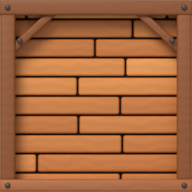
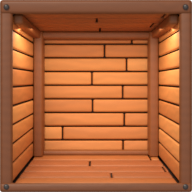
Деревянная комната с объёмом: задняя стена, пол, потолок и бока в перспективе, толстая рама
Claude-Session: https://claude.ai/code/session_01Gsst3hFuf1c6zM4f6Jt7o5

diff --git a/art_src/rooms/build_rooms.py b/art_src/rooms/build_rooms.py
@@ -5,17 +5,18 @@ import os, sys, math, random
 import bpy
 
 HERE = os.path.dirname(os.path.abspath(__file__))
-OUT = os.path.join(HERE, '..', '..', 'assets', 'rooms')
+# ROOMS_OUT, ROOMS_WIDTHS=6, ROOMS_SAMPLES=24 — для быстрых проб.
+OUT = os.environ.get('ROOMS_OUT') or os.path.join(HERE, '..', '..', 'assets', 'rooms')
 PX = 64           # пикселей на метр (клетку) в рендере
 H = 3.0           # высота комнаты
-WIDTHS = [3, 6, 9]
+WIDTHS = [int(v) for v in os.environ.get('ROOMS_WIDTHS', '3,6,9').split(',')]
 
 
 def reset():
     bpy.ops.wm.read_factory_settings(use_empty=True)
     sc = bpy.context.scene
     sc.render.engine = 'CYCLES'
-    sc.cycles.samples = 96
+    sc.cycles.samples = int(os.environ.get('ROOMS_SAMPLES', 96))
     sc.cycles.use_denoising = True
     sc.render.film_transparent = True
     sc.view_settings.view_transform = 'Standard'
@@ -114,45 +115,121 @@ def bolt(x, z, y, m):
     bpy.ops.object.shade_smooth()
 
 
+# Объём «разрезом»: внутренность — настоящая коробка глубиной D, которую потом сжимаем
+# к задней стене на постоянный отступ (вынужденная перспектива). Камера ортогональная,
+# поэтому передняя рама ровно совпадает с клетками, а глубина одинакова у комнат 3/6/9.
+D = 1.5                 # глубина комнаты (м)
+FS, FT, FB = 0.2, 0.22, 0.14   # толщина передней рамы: бок, верх, низ
+INSET = (0.36, 0.3, 0.46)      # насколько сужается к задней стене: бок, потолок, пол
+
+
+def warp(objs, w):
+    """Сжать вершины объектов к задней стене: чем глубже (y), тем ближе к центру."""
+    X0, X1, Z0, Z1 = FS, w - FS, FB, H - FT
+    for o in objs:
+        bpy.context.view_layer.objects.active = o
+        for s in bpy.context.selected_objects:
+            s.select_set(False)
+        o.select_set(True)
+        bpy.ops.object.convert(target='MESH')
+        mw = o.matrix_world.copy()
+        inv = mw.inverted()
+        for v in o.data.vertices:
+            p = mw @ v.co
+            k = min(1.0, max(0.0, p.y / D))
+            ax, at, ab = INSET[0] * k, INSET[1] * k, INSET[2] * k
+            x = X0 + ax + (p.x - X0) * (X1 - X0 - 2 * ax) / (X1 - X0)
+            z = Z0 + ab + (p.z - Z0) * (Z1 - Z0 - ab - at) / (Z1 - Z0)
+            p.x, p.z = x, z
+            v.co = inv @ p
+        o.data.update()
+
+
+def planks_along(name, axis, a0, a1, b0, b1, plane, side, mats, rnd, ph=0.3, t=0.06):
+    """Доски поверхности. axis='x' — доски вдоль x (рядами по второй оси b),
+    plane — координата поверхности по третьей оси, side — куда толщина (±1)."""
+    out = []
+    b = b0
+    row = 0
+    while b < b1 - 0.01:
+        b2 = min(b1, b + ph)
+        a = a0 if row % 2 == 0 else a0 - rnd.uniform(0.6, 1.4)
+        while a < a1:
+            ln = rnd.uniform(1.6, 2.8)
+            x0, x1 = max(a0, a), min(a1, a + ln)
+            if x1 - x0 > 0.05:
+                c0, c1 = sorted((plane, plane + side * t))
+                m = rnd.choice(mats)
+                if axis == 'xz':      # задняя стена: доски по x, ряды по z, толщина по y
+                    out.append(box(name, x0 + .015, b + .015, x1 - .015, b2 - .015, c0, c1, m, .03))
+                elif axis == 'xy':    # пол/потолок: доски по x, ряды по y, толщина по z
+                    o = box(name, x0 + .015, c0, x1 - .015, c1, b + .015, b2 - .015, m, .03)
+                    out.append(o)
+            a += ln
+        b = b2
+        row += 1
+    return out
+
+
 def wood_room(w):
     rnd = random.Random(w)
     tones = ['#d9904f', '#cc8245', '#e29c5a', '#c47a40']
     planks = [mat('plank%d' % i, c, 0.65, 0.35) for i, c in enumerate(tones)]
+    floor_t = [mat('fl%d' % i, c, 0.5, 0.3) for i, c in enumerate(['#b06a3a', '#a5613a', '#b9743f'])]
+    ceil_t = [mat('cl%d' % i, c, 0.6, 0.3) for i, c in enumerate(['#9c5a2e', '#a96534'])]
     gap = mat('gap', '#3a1f10', 0.9)
     post = mat('post', '#8a4f26', 0.55, 0.3)
-    floor = mat('floor', '#a8653a', 0.5, 0.3)
+    frame = mat('frame', '#7a4422', 0.5, 0.3)
     iron = mat('iron', '#3b3536', 0.35)
-    # Задняя стена: горизонтальные доски со сдвинутыми стыками; за ними тёмная щель.
-    box('back', 0, 0, w, H, 0.32, 0.4, gap, 0)
-    ph = 0.3
-    z = 0.0
-    row = 0
-    while z < H - 0.01:
-        x = 0.0 if row % 2 == 0 else -rnd.uniform(0.6, 1.4)
-        while x < w:
-            ln = rnd.uniform(1.6, 2.8)
-            x0, x1 = max(0.0, x), min(w, x + ln)
-            if x1 - x0 > 0.05:
-                box('p', x0 + 0.015, z + 0.015, x1 - 0.015, z + ph - 0.015, 0.18, 0.32, rnd.choice(planks), 0.035)
-            x += ln
-        z += ph
-        row += 1
-    # Пол — толстая доска, потолок — балка; по бокам и через 3 м — стойки с укосинами.
-    box('floor', -0.02, 0.0, w + 0.02, 0.2, -0.25, 0.3, floor, 0.04)
-    box('ceil', -0.02, H - 0.24, w + 0.02, H, -0.2, 0.3, post, 0.04)
-    xs = list(range(0, w + 1, 3))
-    for x in xs:
-        x0 = x - 0.0 if x == 0 else (x - 0.24 if x == w else x - 0.12)
-        x0 = 0.0 if x == 0 else x0
-        box('post', x0, 0.18, x0 + 0.24, H - 0.2, -0.18, 0.28, post, 0.04)
+    X0, X1, Z0, Z1 = FS, w - FS, FB, H - FT
+    inner = []
+    # Тёмная подложка за всеми досками — в щелях между ними.
+    inner.append(box('back_gap', X0 - .1, Z0 - .1, X1 + .1, Z1 + .1, D + 0.06, D + 0.12, gap, 0))
+    inner.append(box('floor_gap', X0 - .1, Z0 - .14, X1 + .1, Z0 - .06, -0.1, D + .1, gap, 0))
+    inner.append(box('ceil_gap', X0 - .1, Z1 + .06, X1 + .1, Z1 + .14, -0.1, D + .1, gap, 0))
+    # Задняя стена, пол, потолок — доски.
+    inner += planks_along('back', 'xz', X0, X1, Z0, Z1, D, 1, planks, rnd)
+    inner += planks_along('floor', 'xy', X0, X1, 0.0, D, Z0, -1, floor_t, rnd, ph=0.3)
+    inner += planks_along('ceil', 'xy', X0, X1, 0.0, D, Z1, 1, ceil_t, rnd, ph=0.375)
+    # Боковые стены: доски вдоль глубины, рядами по высоте.
+    for x, sd in ((X0, -1), (X1, 1)):
+        g0, g1 = sorted((x + sd * .06, x + sd * .12))
+        inner.append(box('side_gap', g0, Z0 - .1, g1, Z1 + .1, -0.1, D + .1, gap, 0))
+        z = Z0
+        while z < Z1 - 0.01:
+            z2 = min(Z1, z + 0.3)
+            c0, c1 = sorted((x, x + sd * 0.06))
+            inner.append(box('side', c0, z + .015, c1, z2 - .015, -0.05, D + .02, rnd.choice(planks), .03))
+            z = z2
+    # Стойки в задних углах и балки по рёбрам потолка и пола.
+    for x in (X0, X1 - 0.2):
+        inner.append(box('corner', x, Z0, x + 0.2, Z1, D - 0.2, D, post, .04))
+    inner.append(box('back_top', X0, Z1 - 0.16, X1, Z1, D - 0.16, D, post, .04))
+    inner.append(box('back_low', X0, Z0, X1, Z0 + 0.1, D - 0.1, D, post, .03))
+    for x in (X0, X1 - 0.16):
+        inner.append(box('ceil_edge', x, Z1 - 0.16, x + 0.16, Z1, 0.0, D, post, .04))
+    # Через 3 м — стойки на задней стене с укосинами под потолочной балкой.
+    for x in range(3, w, 3):
+        inner.append(box('post', x - 0.1, Z0, x + 0.1, Z1, D - 0.14, D, post, .04))
         for side in (-1, 1):
-            if (x == 0 and side < 0) or (x == w and side > 0):
-                continue
-            px = x0 + (0.24 if side > 0 else 0.0)
-            beam('brace', (px - side * 0.08, H - 0.8), (px + side * 0.6, H - 0.18), 0.13, -0.12, 0.22, post)
-            bolt(px + side * 0.07, H - 0.64, -0.19, iron)
-        bolt(x0 + 0.12, H - 0.12, -0.21, iron)
-        bolt(x0 + 0.12, 0.1, -0.26, iron)
+            px = x + side * 0.1
+            inner.append(beam('brace', (px - side * 0.06, Z1 - 0.7), (px + side * 0.5, Z1 - 0.12), 0.12, D - 0.12, D - 0.02, post))
+            bolt(px + side * 0.06, Z1 - 0.56, D - 0.13, iron)
+            inner.append(bpy.context.object)
+    # Потолочные балки поперёк, в глубину.
+    for x in range(3, w, 3):
+        inner.append(box('joist', x - 0.09, Z1 - 0.14, x + 0.09, Z1, 0.0, D, post, .04))
+    warp(inner, w)
+    # Передняя рама — толстые брусья поверх разреза, с болтами в углах.
+    box('f_left', 0, 0, FS, H, -0.2, 0.06, frame, .05)
+    box('f_right', w - FS, 0, w, H, -0.2, 0.06, frame, .05)
+    box('f_top', 0, H - FT, w, H, -0.22, 0.04, frame, .05)
+    box('f_bot', 0, 0, w, FB, -0.24, 0.04, frame, .04)
+    for x in (FS / 2, w - FS / 2):
+        for z in (H - FT / 2, FB / 2 + 0.01):
+            bolt(x, z, -0.24, iron)
+    for x in range(3, w, 3):
+        bolt(x, H - FT / 2, -0.24, iron)
 
 
 def light_and_camera(w):
@@ -174,6 +251,14 @@ def light_and_camera(w):
     fill.data.energy = 0.6
     fill.data.angle = math.radians(60)
     fill.rotation_euler = (math.radians(85), math.radians(15), 0)
+    # Тёплый рассеянный свет внутри, под потолком у передней рамы.
+    bpy.ops.object.light_add(type='AREA', location=(w / 2, 0.4, H - 0.45))
+    inner = bpy.context.object
+    inner.data.shape = 'RECTANGLE'
+    inner.data.size = w * 0.8
+    inner.data.size_y = 0.6
+    inner.data.energy = 14 * w
+    inner.data.color = (1.0, 0.82, 0.6)
     bpy.ops.object.camera_add(location=(w / 2, -20, H / 2), rotation=(math.radians(90), 0, 0))
     cam = bpy.context.object
     cam.data.type = 'ORTHO'

diff --git a/docs/DESIGN_PLAN.md b/docs/DESIGN_PLAN.md
@@ -20,8 +20,8 @@
 1. Фон — картинки есть в `art_src/backgrounds/` (см. README там): сшить края, встроить
    вместо холмов шейдера `shaders/sky.gdshader`. Второй вариант холмов перегенерировать.
 2. Земля — серые текстуры с полосами, подкраска цветом породы; кромка травы.
-3. Комнаты — сначала пустая деревянная (сделана плоской: `art_src/rooms/build_rooms.py`
-   → `assets/rooms/wood_{3,6,9}.png`, автор хочет объём), потом жилая, потом остальные 13,
+3. Комнаты — сначала пустая деревянная (готова, с объёмом: `art_src/rooms/build_rooms.py`
+   → `assets/rooms/wood_{3,6,9}.png`, сравнение `docs/art/room_wood_compare.png`), потом жилая, потом остальные 13,
    состояния «строится» / «повреждена».
 4. Улица — деревья по сезонам, ели, кусты, валуны (модели).
 5. Жители — квадратные и круглые на основе `art_src/characters/BlueBuddy.blend`,
@@ -31,6 +31,10 @@
 ## Технически
 - Клетка 32 px, комнаты 3/6/9 × 3 клетки (`Project.ROOM_HEIGHT`, `Hud.ROOM_SIZES`).
 - Рендер 2× (64 px на клетку), в игре — с мипмапами (`structures.texture_filter`).
+- Объём комнаты: внутренность строится коробкой глубиной 1,5 м и сжимается к задней
+  стене на постоянный отступ (`warp`, `INSET` — бок/потолок/пол), камера ортогональная —
+  рама ровно по клеткам, глубина одинакова у 3/6/9. Быстрая проба:
+  `ROOMS_OUT=/tmp/r ROOMS_WIDTHS=6 ROOMS_SAMPLES=24 python3 art_src/rooms/build_rooms.py`.
 - `StructureLayer.room_texture(material, w)` берёт `assets/rooms/<материал>_<ширина>.png`,
   если есть; иначе рисует как раньше. Лестницы, лампа, «?», трещины — поверх.
 - Blender: модуль `pip install bpy` (Python 3.13), Cycles на CPU; цвета задавать через
